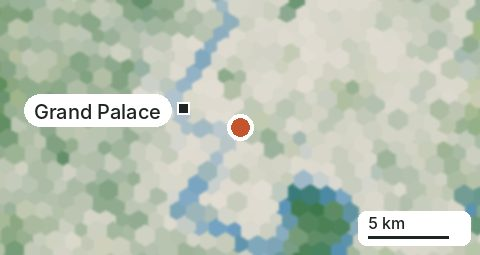
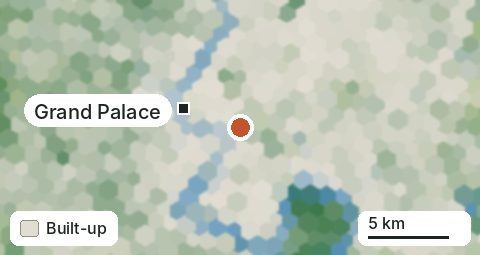
Locator maps: 'Built-up' key so pale land reads as city, not missing data
Claude-Session: https://claude.ai/code/session_01Qm3FDSMJAEC2Qk6LsnPen6

Changed region(s): [[0.0, 0.8235, 0.25, 0.9882]]

diff --git a/pipeline/project_thumbs.py b/pipeline/project_thumbs.py
@@ -8,7 +8,7 @@ from PIL import Image, ImageDraw, ImageFilter, ImageFont
 ROOT = os.path.join(os.path.dirname(os.path.abspath(__file__)), '..')
 OUT = os.path.join(ROOT, 'assets', 'img', 'pj'); os.makedirs(OUT, exist_ok=True)
 FD = '/usr/share/fonts/opentype/inter/'
-F1 = ImageFont.truetype(FD + 'Inter-SemiBold.otf', 23); F2 = ImageFont.truetype(FD + 'Inter-Medium.otf', 20); F3 = ImageFont.truetype(FD + 'Inter-Medium.otf', 18)
+F1 = ImageFont.truetype(FD + 'Inter-SemiBold.otf', 23); F2 = ImageFont.truetype(FD + 'Inter-Medium.otf', 20); F3 = ImageFont.truetype(FD + 'Inter-Medium.otf', 18); F4 = ImageFont.truetype(FD + 'Inter-Medium.otf', 16)
 # Built land is kept pale so parks, farmland and water stand out
 COL = {'built': (226, 221, 211), 'tree': (58, 118, 72), 'shrub': (120, 150, 92), 'grass': (150, 186, 104), 'crop': (222, 202, 120), 'bare': (214, 196, 166), 'water': (52, 128, 190), 'wetland': (78, 156, 156)}
 W, H, SPAN_KM = 480, 255, 30
@@ -71,7 +71,8 @@ for p in json.load(open(os.path.join(ROOT, 'data', 'projects.json')))['projects'
         dr.ellipse([W/2-rr-3, H/2-rr-3, W/2+rr+3, H/2+rr+3], outline=(255, 255, 255), width=3)
         dr.ellipse([W/2-rr, H/2-rr, W/2+rr, H/2+rr], outline=PIN, width=4)
     dr.ellipse([W/2-13, H/2-13, W/2+13, H/2+13], fill=(255, 255, 255)); dr.ellipse([W/2-9, H/2-9, W/2+9, H/2+9], fill=PIN)
-    L = 5 * s; SB = (W - 42 - L, H - 44, W - 10, H - 10); BUSY.extend([SB, (W/2-14, H/2-14, W/2+14, H/2+14)])
+    L = 5 * s; SB = (W - 42 - L, H - 44, W - 10, H - 10); KW = dr.textlength('Built-up', font=F4) + 46; KB = (10, H - 44, 10 + KW, H - 10)   # key: pale = built-up land
+    BUSY.extend([SB, KB, (W/2-14, H/2-14, W/2+14, H/2+14)])
     # Landmark: marked if in frame, otherwise named at the edge with its direction and distance
     lm = LANDMARK.get(p['place'])
     if lm:
@@ -92,6 +93,8 @@ for p in json.load(open(os.path.join(ROOT, 'data', 'projects.json')))['projects'
     if OUTLAB:
         ox, oy = OUTLAB; place(dr, [(ox, oy - 16, 'c'), (ox, oy - 36, 'c'), (ox, oy + 4, 'c'), (ox - 20, oy - 16, 'r'), (ox + 20, oy - 16, 'l')], 'Outside this map', F3)
     # Scale
+    dr.rounded_rectangle(KB, radius=8, fill=(255, 255, 255)); dr.rounded_rectangle([KB[0] + 10, KB[1] + 9, KB[0] + 28, KB[1] + 25], radius=3, fill=COL['built'], outline=(150, 145, 136))
+    dr.text((KB[0] + 36, KB[1] + 7), 'Built-up', font=F4, fill=INK)
     X0 = W - 32 - L; dr.rounded_rectangle([X0 - 10, H - 44, W - 10, H - 10], radius=8, fill=(255, 255, 255))
     dr.line([X0, H - 18, X0 + L, H - 18], fill=INK, width=3); dr.text((X0, H - 42), '5 km', font=ImageFont.truetype(FD + 'Inter-Medium.otf', 16), fill=INK)
     im.save(os.path.join(OUT, p['id'] + '.jpg'), quality=82, optimize=True)
